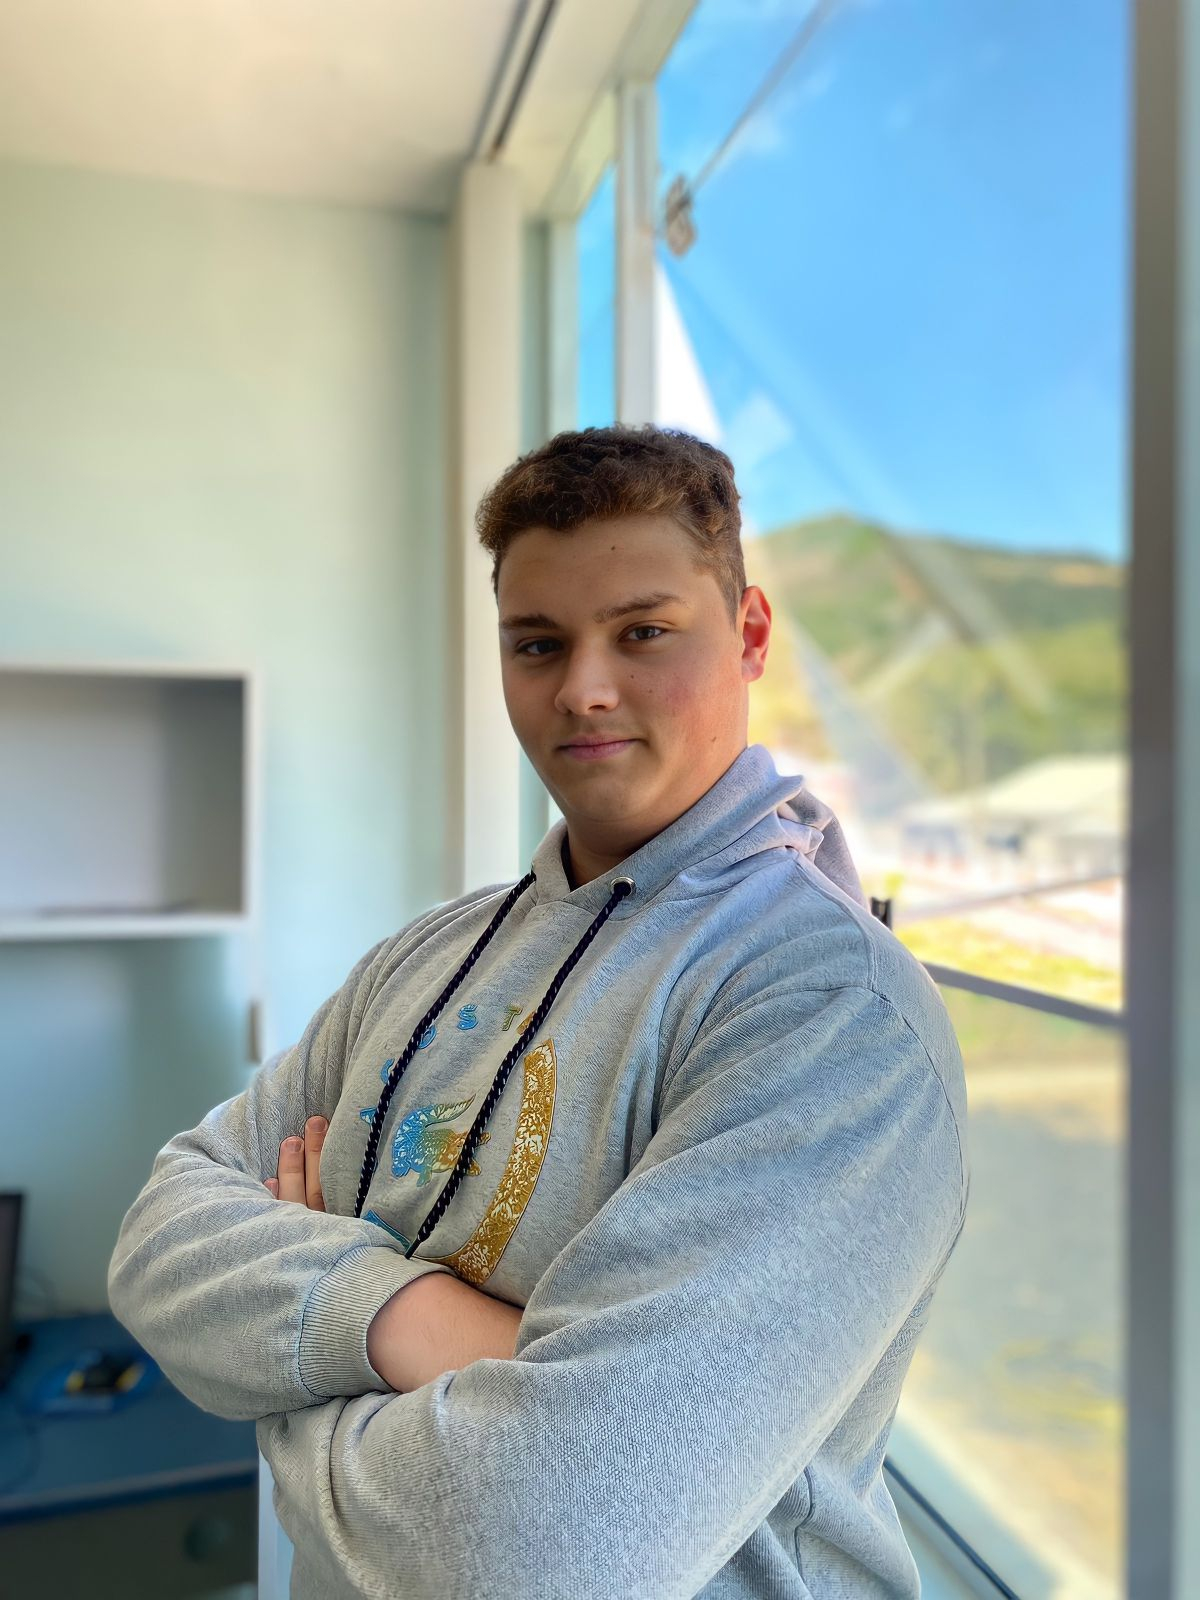
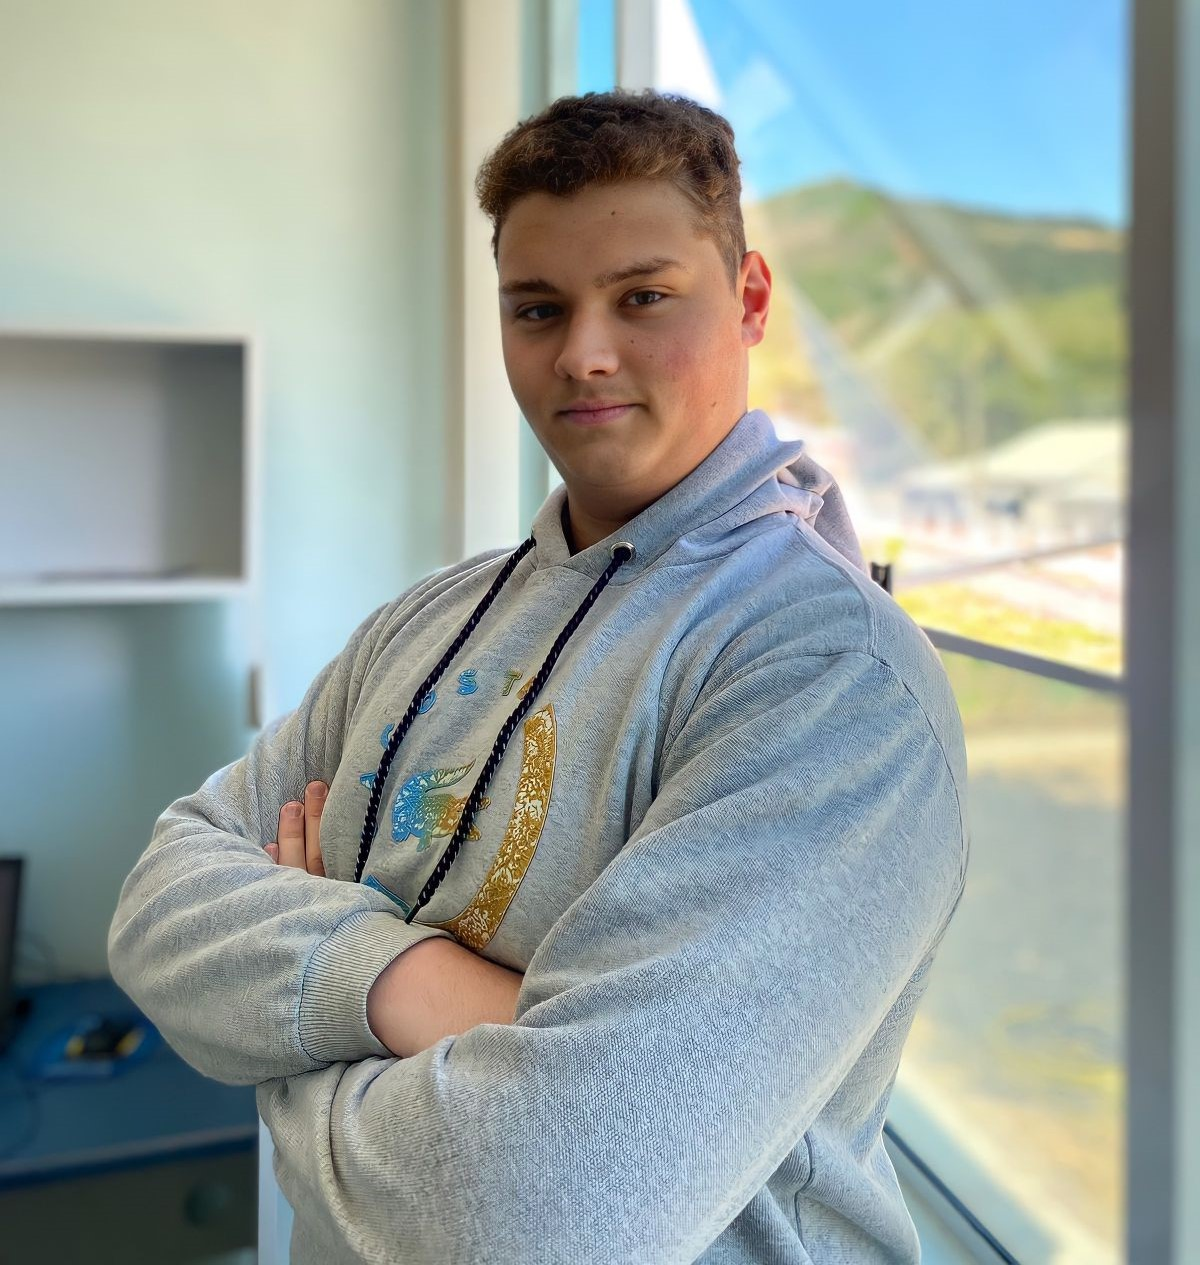
cores

diff --git a/index.html b/index.html
@@ -10,8 +10,6 @@
   <link rel="stylesheet" href="./css/style.css">
   <link rel="icon" href="./favicon.svg" type="image/svg+xml">
 
-
-
   <link rel="preconnect" href="https://fonts.googleapis.com">
   <link rel="preconnect" href="https://fonts.gstatic.com" crossorigin>
   <link href="https://fonts.googleapis.com/css2?family=Fira+Sans:wght@400;700&display=swap" rel="stylesheet">
@@ -19,7 +17,7 @@
 
 <body>
   <header class="header">
-    <h1 class="nome">Erick Estrela</h1>
+    <h1>Erick Gesser Schaeffer</h1>
     <nav>
       <ul class="header-menu">
         <li><a href="#experiencia">Experiência</a></li>
@@ -30,7 +28,7 @@
   </header>
 
   <main class="introducao">
-    <img class="foto-ww" src="./img/Star 1.png" alt="Foto na WWsys" width="360" height="520">
+    <img class="foto-ww" src="./img/WWsis.jpg" alt="Foto na WW Sistemas" width="360" height="520">
     <div>
       <h1>Desenvolvedor<br>Front End &<br>UX/UI Designer</h1>
       <p>Localizado em Alfredo Wagner 🏖</p>
@@ -64,7 +62,7 @@
         <ul class="empresa-habilidades">
           <li>Front-End</li>
           <li>Back-End</li>
-          <li>Hardware</li>
+          <li>Formatação</li>
           <li>Softwares</li>
           <li>Tecnologia em geral</li>
         </ul>
@@ -86,17 +84,17 @@
           <li class="faculdade">
             <span class="faculdade-tipo">Curso Online</span>
             <h3 class="faculdade-curso">Programação Completa</h3>
-            <span class="faculdade-instituicao">Rocketseat</span>
+            <span class="faculdade-instituicao"> <a target="_blank" href="https://app.rocketseat.com.br/dashboard">Rocketseat</a></span>
           </li>
           <li class="faculdade">
             <span class="faculdade-tipo">Curso Online</span>
             <h3 class="faculdade-curso">Front End e UX/UI Design</h3>
-            <span class="faculdade-instituicao">Origamid</span>
+            <span class="faculdade-instituicao"> <a target="_blank" href="https://www.origamid.com/"> Origamid</a></span>
           </li>
           <li class="faculdade">
             <span class="faculdade-tipo">Estágio</span>
             <h3 class="faculdade-curso">Desenvolvimento e Analise Completa</h3>
-            <span class="faculdade-instituicao">WW Sistemas</span>
+            <span class="faculdade-instituicao"> <a target="_blank" href="http://www.wwsistemas.com.br/"> WW Sistemas</a></span>
           </li>
         </ul>
 
@@ -104,14 +102,14 @@
           <div class="cursos">
             <h3>Cursos Intensivos</h3>
             <ul>
-              <li>UX Design & UI Design <span>72h</span></li>
-              <li>Front End para Iniciantes <span>78h</span></li>
+              <li>UX Design & UI Design <span>Estudando...</span></li>
+              <li>Front End para Iniciantes <span>Estudando...</span></li>
             </ul>
           </div>
           <div class="idiomas">
             <h3>Idiomas</h3>
             <ul>
-              <li>Inglês <span>/ Fluente</span></li>
+              <li>Inglês <span>/ Intermediário</span></li>
 
             </ul>
           </div>
@@ -124,7 +122,7 @@
     <div class="footer-container">
       <p class="footer-texto">Estou disponível para novos projetos no momento. Entre em contato comigo e marcamos uma conversa.</p>
       <ul class="footer-contato">
-        <li><a href=mailto:erickdevgessberg@gmail.com target="_blank">erickdevgessberg@gmail.com</a></li>
+        <li class="email"><a href="mailto:erickdevgessberg@gmail.com">erickdevgessberg@gmail.com</a></li>
         <li>+55 (48) 98806-1446</li>
         <li><a href="https://www.instagram.com/erickg.schaeffer/
 " target="_blank">@instagram</a></li>

diff --git a/css/header.css b/css/header.css
@@ -1,6 +1,5 @@
-.nome {
-  font-family: "";
-  font-size: 2.5rem;
+.foto-ww {
+  border-radius: 30px;
 }
 
 html {
@@ -16,6 +15,10 @@ html {
   align-items: center;
 }
 
+.header h1 {
+  font-size: 2.5rem;
+}
+
 .header-menu {
   display: flex;
   flex-wrap: wrap;
@@ -24,30 +27,12 @@ html {
 }
 
 .header-menu a {
-  display: inline-block;
   font-size: 1.125rem;
   line-height: 1.3;
   padding: 10px 20px;
   text-decoration: none;
   color: #141414;
   display: block;
-  position: relative;
-}
-
-.header-menu a::after {
-  content: "";
-  display: block;
-  height: 2px;
-  width: 0px;
-  background: #141414;
-  position: absolute;
-  margin-top: 4px;
-  transition: 0.3s;
-}
-
-.header-menu a:hover::after,
-.header-menu a.ativo::after {
-  width: 70%;
 }
 
 @media (max-width: 800px) {

diff --git a/css/formacao.css b/css/formacao.css
@@ -77,14 +77,20 @@
   display: block;
   width: 4px;
   height: 20px;
-  background: linear-gradient(#a020f0, #8a2be2);
+  background: linear-gradient(#8a2be2, #a020f0);
   position: absolute;
   left: -24px;
 }
 
-.faculdade-instituicao {
+.faculdade-instituicao a {
   font-size: 1.125rem;
   color: #a3a3a3;
+}
+
+.faculdade-instituicao a:hover {
+  transition: 400ms;
+  color: #f7f7f7;
+  text-decoration: none;
 }
 
 .cursos {

diff --git a/css/introducao.css b/css/introducao.css
@@ -40,7 +40,8 @@
 
 @media (max-width: 800px) {
   .introducao {
-    grid-template-columns: 1fr;
+    grid-template-columns: 1fr 1fr;
+    gap: 40px;
   }
   .introducao h1 {
     font-size: 2rem;
@@ -55,5 +56,8 @@
 @media (max-width: 400px) {
   .introducao {
     grid-template-columns: 1fr;
+  }
+  .introducao img {
+    display: none;
   }
 }

diff --git a/css/experiencia.css b/css/experiencia.css
@@ -27,7 +27,6 @@
   color: #141414;
 }
 
-
 .empresa {
   display: grid;
   grid-template-columns: 1fr 1fr;
@@ -44,7 +43,7 @@
   display: block;
   width: 4px;
   height: 20px;
-  background: linear-gradient(#a020f0, #8a2be2);
+  background: linear-gradient(#8A2BE2, #A020F0);
   position: absolute;
   top: 20px;
   left: -4px;

diff --git a/css/global.css b/css/global.css
@@ -1,5 +1,5 @@
 body {
-  font-family: Arial, Helvetica, sans-serif;
+  font-family: "Fira Sans", Arial, sans-serif;
   margin: 0px;
   color: #141414;
 }

diff --git a/css/style.css b/css/style.css
@@ -1,5 +1,3 @@
-
-
 @import "./global.css";
 @import "./header.css";
 @import "./introducao.css";

diff --git a/css/footer.css b/css/footer.css
@@ -26,6 +26,7 @@
   margin-bottom: 30px;
 }
 
+
 .footer-contato li a {
   color: #ffffff;
 }
